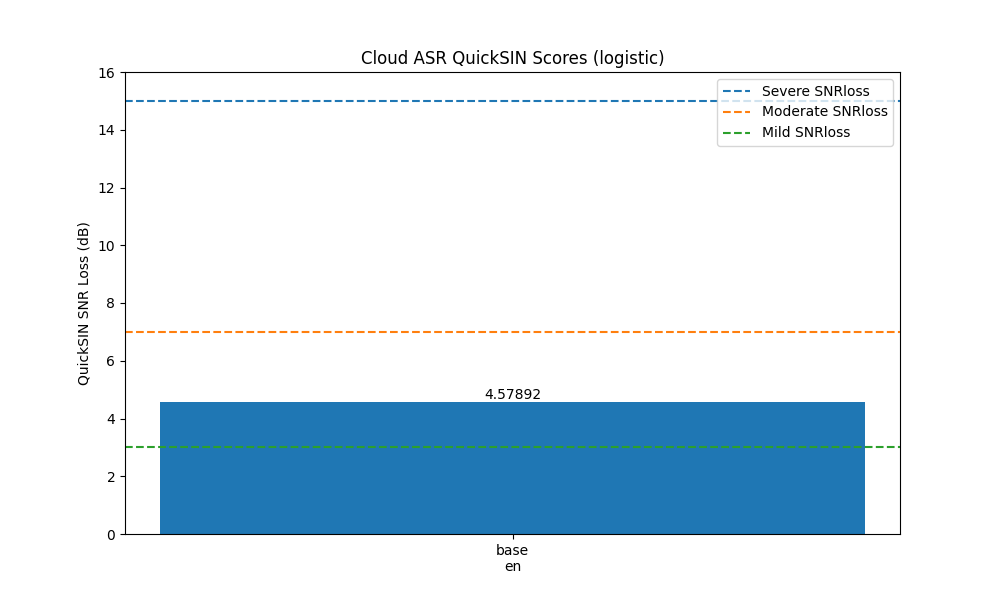
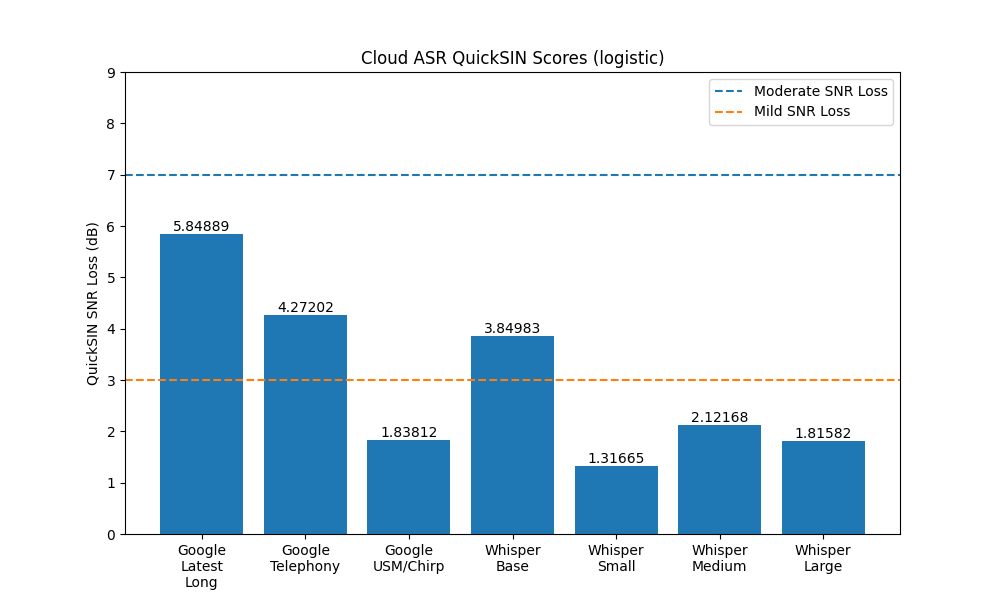
More changes for V3 of JASA EL Submission

diff --git a/google_asr_sin.py b/google_asr_sin.py
@@ -261,7 +261,7 @@ def test_whisper():
   print('Just testing Whisper Engine')
   ground_truth = load_ground_truth(FLAGS.ground_truth_cache)
   whisper_engine = make_recognizer_engine('whisper.base.en')
-  spin_file = find_all_spin_files(FLAGS.audio_dir, 'Babble')[0]
+  spin_file = find_all_spin_files(FLAGS.audio_dir, 'Babble List ')[0]
   whisper_dict = whisper_engine.RecognizeFile(spin_file)
   word_list = whisper_engine.parse_transcript(whisper_dict)
 
@@ -503,10 +503,10 @@ L10 S 5  wall phone ring loud often
 
 L11 S 0  hinge door creaked old age
 L11 S 1  bright lanterns Gay dark lawn
-L11 S 2  offered proof  form large chart
+L11 S 2  offered proof form large chart
 L11 S 3  their eyelids droop want sleep
 L11 S 4  many ways do these things
-L11 S 5  we like see clear weather
+L11 S 5  we like see clear weather/whether
 """.split('\n')
 
 
@@ -521,12 +521,12 @@ def word_alternatives(words: str,
 
 
 homonyms = """
-  # Add word equivalances, here.
+  # Add word equivalances, here.  Nominal correct word, from the list above,
+  # should be listed first.  Then alternatives.
   # Homonyms
   tails/tales
-  4/four
-  four/for
-  maire/mare
+  four/4/for
+  mare/maire
   pedal/petal
   wheeled/wield
   sun/son
@@ -536,7 +536,7 @@ homonyms = """
   silk/whitesilk
   roll/role
   drowned/dround
-  yacht/yaught
+  yacht/yaught/yach
   hall/haul
   # Close enough words.
   # None so far.. we count if an error if even one phoneme is wrong.
@@ -666,7 +666,8 @@ def print_spin_ground_truth(truth: List[List[SpinSentence]]):
 
 def save_ground_truth(truth: List[List[SpinSentence]], filename: str):
   """Save the QuickSIN ground truth into a JSON file so we don't have
-  to compute it again."""
+  to compute it again. The ground truth starts as a SpinSentence, but is
+  saved (and restored) as a dictionary."""
   class GoogleSinEncoder(json.JSONEncoder):
     def default(self, o):
       if dataclasses.is_dataclass(o):
@@ -691,7 +692,8 @@ def load_ground_truth(filename: str) -> List[List[SpinSentence]]:
 
   Return:
     A list of 12 SPIN lists, each list containing the 6 SPIN 
-    sentences at the different SNRs.
+    sentences at the different SNRs.  The data is a dictionary on disk, but 
+    is converted to a SpinSentence by this routine.
   """
   with fsspec.open(filename, 'r') as fp:
     saved_data = json.load(fp)
@@ -711,21 +713,43 @@ def load_ground_truth(filename: str) -> List[List[SpinSentence]]:
   return truth
 
 
-number_re = re.compile(r' (\d+).wav')
+def print_quicksin_ground_truth(d: List[List[SpinSentence]]):
+  print('Ground Truth with all Synonyms:')
+  for list_number in range(12):
+    for sentence_number in range(6):
+      print(f'L{list_number} S{sentence_number}:', end='')
+      sent = d[list_number][sentence_number]
+      print(f' [{sent.start_time}-{sent.end_time}] ', end='')
+      for syn_set in sent.true_word_list:
+        syn_list = list(syn_set)
+        print(f'{"/".join(syn_list)} ',  end='')
+      print()
 
-def sort_by_list_number(s: str) -> int:
+
+XXnumber_re = re.compile(r' (\d+).wav')
+
+def XXsort_by_list_number(s: str) -> int:
   m = number_re.search(s)
   assert m, f'Could not find list number in {s}'
   return int(m[1])
 
 
-def find_all_spin_files(audio_dir: str, pattern: str):
-  spin_pattern = os.path.join(audio_dir, '*.wav')
-  spin_file_names = fsspec.open_files(spin_pattern)
-  spin_file_names = [f.full_name for f in spin_file_names]
-  wanted_spin_names = [f for f in spin_file_names if pattern in f]
-  wanted_spin_names.sort(key=sort_by_list_number)
-  return wanted_spin_names
+def find_all_spin_files(audio_dir: str, prefix: str):
+  """Return the list of SPIN test files that match the specified prefix.
+  Return them in order so we can use the ones we care about.
+  
+  Args:
+    audio_dir: Where to find the audio files in .wav format
+    prefix: The file name prefix for the subset we care about.
+    
+  Returns:
+    A list of filenames with the given prefix, in numerical order.
+  """
+  spin_file_names = [os.path.join(audio_dir, 
+                                  f'{prefix}{i+1}.wav') for i in range(12)]
+  for f in spin_file_names:
+    assert os.path.exists(f), f'{f} not found in find_all_spin_files'
+  return spin_file_names
 
 
 def compute_quicksin_truth(
@@ -739,7 +763,7 @@ def compute_quicksin_truth(
   sentence.  Combine with the keyword list to create a list (by QuickSin list) 
   of lists of sentences (one sentence per test SNR).
   """
-  spin_truth_names = find_all_spin_files(wav_dir, 'Clean')
+  spin_truth_names = find_all_spin_files(wav_dir, 'Clean List ')
   print(f'Found {len(spin_truth_names)} QuickSIN lists to process.')
 
   if sentence_breaks is None:
@@ -824,31 +848,38 @@ def score_word_list(true_words: List[Set[str]],
     score = min(score, max_count)
   if missing_words:
     missing_words = prettyprint_words_and_alternatives(missing_words)
-    #pylint: disable=inconsistent-quotes
-    print(f'Want {", ".join(missing_words)}, '
-          f'from: {", ".join(recognized_words)}')
+    missing_words_string = ', '.join(missing_words)
+    recognized_words_string = ', '.join(recognized_words)
+    print(f'Could not find {missing_words_string} '
+          f'in this recognition result: {recognized_words_string}')
   return score
 
 def score_all_tests(snrs: List[float],
                     ground_truths: List[List[SpinSentence]],
                     reco_results: List[RecogResult],
+                    # Good lists from McArdle2006 and Mead2006.
+                    good_lists: List[int] = [1, 2, 6, 8, 10, 11, 12],
                     debug=False) -> np.ndarray:
   """Score all list for all SNRs for one recognizer.  Iterate through all the
   lists, and then score each SNR in the list. 
   Args:
     snrs: List of (standard) test SNRs
     ground_truths: A list (one item per QuickSIN List) of lists (one per
-      SNR) of the ground truth sentences.
+      SNR) of the ground truth sentences. This routine uses the true_word_list
+      as the ground truth (this also contains the alternates).
     reco_results: A list of recognition results 
+    good_lists: Which QuickSIN lists do we want to use for scoring.  This list
+      starts at 1 (while the Python lists start counting at zero)!!!
   
   Return a np array with the fraction correct for each of the listed SNRs."""
-  num_lists = len(ground_truths)
+  num_lists = len(good_lists)
   num_keywords = 5
 
   correct_counts = []
   for snr_num, snr in enumerate(snrs):
     correct_count = 0
-    for list_num in range(num_lists):
+    for list_num in good_lists:
+      list_num -= 1  # Since Python starts lists at 0.
       true_words = ground_truths[list_num][snr_num].true_word_list
       recognized_words = words_in_trial(
         reco_results[list_num],
@@ -871,24 +902,28 @@ def score_all_tests(snrs: List[float],
 # Models listed here:
 # https://cloud.google.com/speech-to-text/docs/transcription-model
 
-all_model_names = (# Google cloud models
-                   # 'latest_long',
-                   # 'latest_short',
-                   # 'telephony',
-                   # 'medical_dictation',
-                   # 'medical_conversation',
-                   # 'chirp',
+all_model_names = {# Google cloud models
+                   'latest_long': 'Google\nLatest\nLong',
+                   # 'latest_short': 'Google\nLatest\nShort',
+                   'telephony': 'Google\nTelephony',
+                   # 'medical_dictation': Google\nMedical\nDictation',
+                   # 'medical_conversation': Google\nMedical\nConversation'
+                   'chirp': 'Google\nUSM/Chirp',
 
                    # Whisper models from https://github.com/openai/whisper
-                   'whisper.base.en',
-                   'whisper.small.en',
-                   'whisper.medium.en'
-)
+                   'whisper.base.en': 'Whisper\nBase',
+                   'whisper.small.en': 'Whisper\nSmall',
+                   'whisper.medium.en': 'Whisper\nMedium',
+                   'whisper.large': 'Whisper\nLarge',
+}
+
+
 
 def recognize_with_all_models(
     project_id: str,
     spin_test_names: List[str],
-    model_names: List[str] = all_model_names) -> Dict[str, SpinFileTranscripts]:
+    model_names: Dict[str, str] = all_model_names) -> Dict[str, 
+                                                           SpinFileTranscripts]:
   """Recognize all QuickSIN test files (from the spin_test_names argument)
   Return a dictionary of scores vs. list of lists of transcripts, keyed by 
   the model name.
@@ -918,12 +953,15 @@ def score_all_models(
   print(type(model_results), model_results)
 
   for model_name in model_results:
+    if model_name not in all_model_names:
+      continue
     print(f'Scoring model {model_name}')
     babble_transcripts = model_results[model_name]
     scores = score_all_tests(test_snrs,
                              ground_truths,
                              babble_transcripts,
                              debug=True)
+    print('Score_all_tests returned', scores)
     model_scores[model_name] = scores
   return model_scores
 
@@ -1037,7 +1075,15 @@ def run_ground_truth(ground_truth_json_file: str,
                      sin_wav_dir: str = ('/content/drive/MyDrive/'
                                          'Stanford/QuickSIN22/'),
                      sentence_boundary_graph: str = '',
-                    ):
+                    ) -> List[List[SpinSentence]]:
+  """
+  Returns:
+    Lists of lists of dictionaries, one for each QuickSIN sentence.
+    Lists are indexed for by QuickSIN list number, then QuickSIN sentence 
+    number. Each dictionary contains the sentence words (from the recognizers),
+    and the key words and alternates for the scoring.  As well as the start and
+    stop time of this sentence, and the SNR.
+  """
   if not os.path.exists(ground_truth_json_file):
     truths = compute_quicksin_truth(
       sin_wav_dir,
@@ -1049,6 +1095,8 @@ def run_ground_truth(ground_truth_json_file: str,
     truths = load_ground_truth(ground_truth_json_file)
     assert isinstance(truths, list)
     assert len(truths), 12
+
+  print_quicksin_ground_truth(truths)
   return truths
 
 
@@ -1056,7 +1104,7 @@ def run_recognize_models(recognition_json_file: str,
                          audio_dir: str,
                          project_id: str) -> Dict[str, SpinFileTranscripts]:
   if not os.path.exists(recognition_json_file):
-    spin_test_names = find_all_spin_files(audio_dir, 'Babble')
+    spin_test_names = find_all_spin_files(audio_dir, 'Babble List ')
 
     recognition_results = recognize_with_all_models(
       project_id,
@@ -1070,7 +1118,7 @@ def run_recognize_models(recognition_json_file: str,
 
 def run_score_models(models_json_file: str,
                      model_results: Dict[str, SpinFileTranscripts],
-                     truths) -> Dict[str, np.ndarray]:
+                     truths: List[List[SpinSentence]]) -> Dict[str, np.ndarray]:
   if not os.path.exists(models_json_file):
     model_frac_scores = score_all_models(model_results,
                                          truths)
@@ -1162,14 +1210,17 @@ def main(_):
   #pylint: disable=consider-using-dict-items
   if FLAGS.all_score_graph:
     # Line graph showing the fraction correct for all recognizers for all SNRs.
-    plt.figure(figsize=figsize)
+    plt.figure(figsize=(6, 4))
     for m in model_frac_scores:
       plt.plot(spin_snrs,
                model_frac_scores[m],
-               label=m)
+               label=all_model_names[m].replace('\n', ' '))
     plt.xlabel('SNR (dB)')
     plt.ylabel('Fraction of words recognized correctly')
     plt.legend()
+    a = plt.axis()
+    plt.plot([3, 3], [0, 1.0], '--')
+    plt.plot([0, 25], [0.5, 0.5], '--')
     plt.savefig(FLAGS.all_score_graph)
 
   quicksin_regression_loss = {}
@@ -1177,11 +1228,7 @@ def main(_):
     quicksin_regression_loss[m] = compute_quicksin_regression(
       spin_snrs, model_frac_scores[m]) - FLAGS.human_level
 
-  bar_labels = [s.replace('_', '\n') for s in quicksin_regression_loss]
-  bar_labels = [s.replace('whisper.', '') for s in bar_labels]
-  bar_labels = [s.replace('base.en', 'base\nen') for s in bar_labels]
-  bar_labels = [s.replace('small.en', 'small\nen') for s in bar_labels]
-  bar_labels = [s.replace('medium.en', 'medium\nen') for s in bar_labels]
+  bar_labels = [all_model_names[i] for i in quicksin_regression_loss]
 
   print('All results:', quicksin_regression_loss)
   if FLAGS.spin_logistic_graph:
@@ -1189,12 +1236,12 @@ def main(_):
     ax = fig.add_subplot(111)
     bar_container = ax.bar(bar_labels, quicksin_regression_loss.values())
     ax.set(ylabel='QuickSIN SNR Loss (dB)',
-           title='Cloud ASR QuickSIN Scores (logistic)', ylim=(0, 16))
+           title='Cloud ASR QuickSIN Scores (logistic)', ylim=(0, 9))
     ax.bar_label(bar_container)
     a = plt.axis()
-    plt.plot(a[:2], [15, 15], '--', label='Severe SNRloss')
-    plt.plot(a[:2], [7, 7], '--', label='Moderate SNRloss')
-    plt.plot(a[:2], [3, 3], '--', label='Mild SNRloss')
+    # plt.plot(a[:2], [15, 15], '--', label='Severe SNR Loss')
+    plt.plot(a[:2], [7, 7], '--', label='Moderate SNR Loss')
+    plt.plot(a[:2], [3, 3], '--', label='Mild SNR Loss')
     plt.legend()
     plt.axis(a)
     plt.savefig(FLAGS.spin_logistic_graph)
@@ -1207,7 +1254,7 @@ def main(_):
                                    scores,
                                    ftol=1e-4)
     detailed_snr = np.arange(0, 25, 0.1)
-    fig = plt.figure(figsize=figsize)  # reset to default size
+    fig = plt.figure(figsize=(figsize))  # reset to default size
     plt.plot(spin_snrs, scores, 'x', label='Experimental Data')
     plt.plot(detailed_snr,
              psychometric_curve(detailed_snr,
@@ -1239,12 +1286,12 @@ def main(_):
       bar_labels,
       quicksin_counting_loss.values())
     ax.set(ylabel='QuickSIN SNR Loss (dB)',
-           title='Cloud ASR QuickSIN Scores (counting)', ylim=(0, 16))
+           title='Cloud ASR QuickSIN Scores (counting)', ylim=(0, 9))
     ax.bar_label(bar_container)
     a = plt.axis()
-    plt.plot(a[:2], [15, 15], '--', label='Severe SNRloss')
-    plt.plot(a[:2], [7, 7], '--', label='Moderate SNRloss')
-    plt.plot(a[:2], [3, 3], '--', label='Mild SNRloss')
+    # plt.plot(a[:2], [15, 15], '--', label='Severe SNR Loss')
+    plt.plot(a[:2], [7, 7], '--', label='Moderate SNR Loss')
+    plt.plot(a[:2], [3, 3], '--', label='Mild SNR Loss')
     plt.legend()
     plt.axis(a)
     plt.savefig(FLAGS.spin_counting_graph)
@@ -1260,7 +1307,7 @@ def main(_):
     print('Linear regression connecting logistic and counting approaches: '
           f'slope is {m}, bias is {b}')
     
-    plt.figure(figsize=figsize)
+    plt.figure(figsize=(6, 4))
     plt.plot(quicksin_regression_loss.values(),
              quicksin_counting_loss.values(), 'x', label='Recognition results')
     plt.xlabel('QuickSIN SNR loss by logistic regression (dB)')
@@ -1307,13 +1354,13 @@ def main(_):
     a = plt.axis()
     plt.axis('tight')
     offset = 0.2
-    plt.plot(a[:2], [15, 15], '--', alpha=0.25)
-    plt.text(a[1], 15+offset, 'Severe', ha='right')
+    # plt.plot(a[:2], [15, 15], '--', alpha=0.25)
+    # plt.text(a[1], 15+offset, 'Severe', ha='right')
     plt.plot(a[:2], [7, 7], '--', alpha=0.25)
     plt.text(a[1], 7+offset, 'Moderate', ha='right')
     plt.plot(a[:2], [3, 3], '--', alpha=0.25)
     plt.text(a[1], 3+offset, 'Mild', ha='right')
-    ax.set_ylim(0, 16)
+    ax.set_ylim(0, 9)
     plt.legend(loc='upper center') # , ncol=2)
     plt.savefig(FLAGS.method_comparison_graph)
 

diff --git a/google_asr_sin_test.py b/google_asr_sin_test.py
@@ -253,6 +253,7 @@ L 1 S 0  tear/Tara thin sheet yellow pad
                                  ['a', 'black', 'silk', 'jacket'])
     self.assertEqual(score, 3)
 
+    # Make sure duplicate recognitions are ignored.
     score = gasr.score_word_list(true_word_list,
                                  ['a', 'black', 'black', 'silk', 'jacket'])
     self.assertEqual(score, 3)
